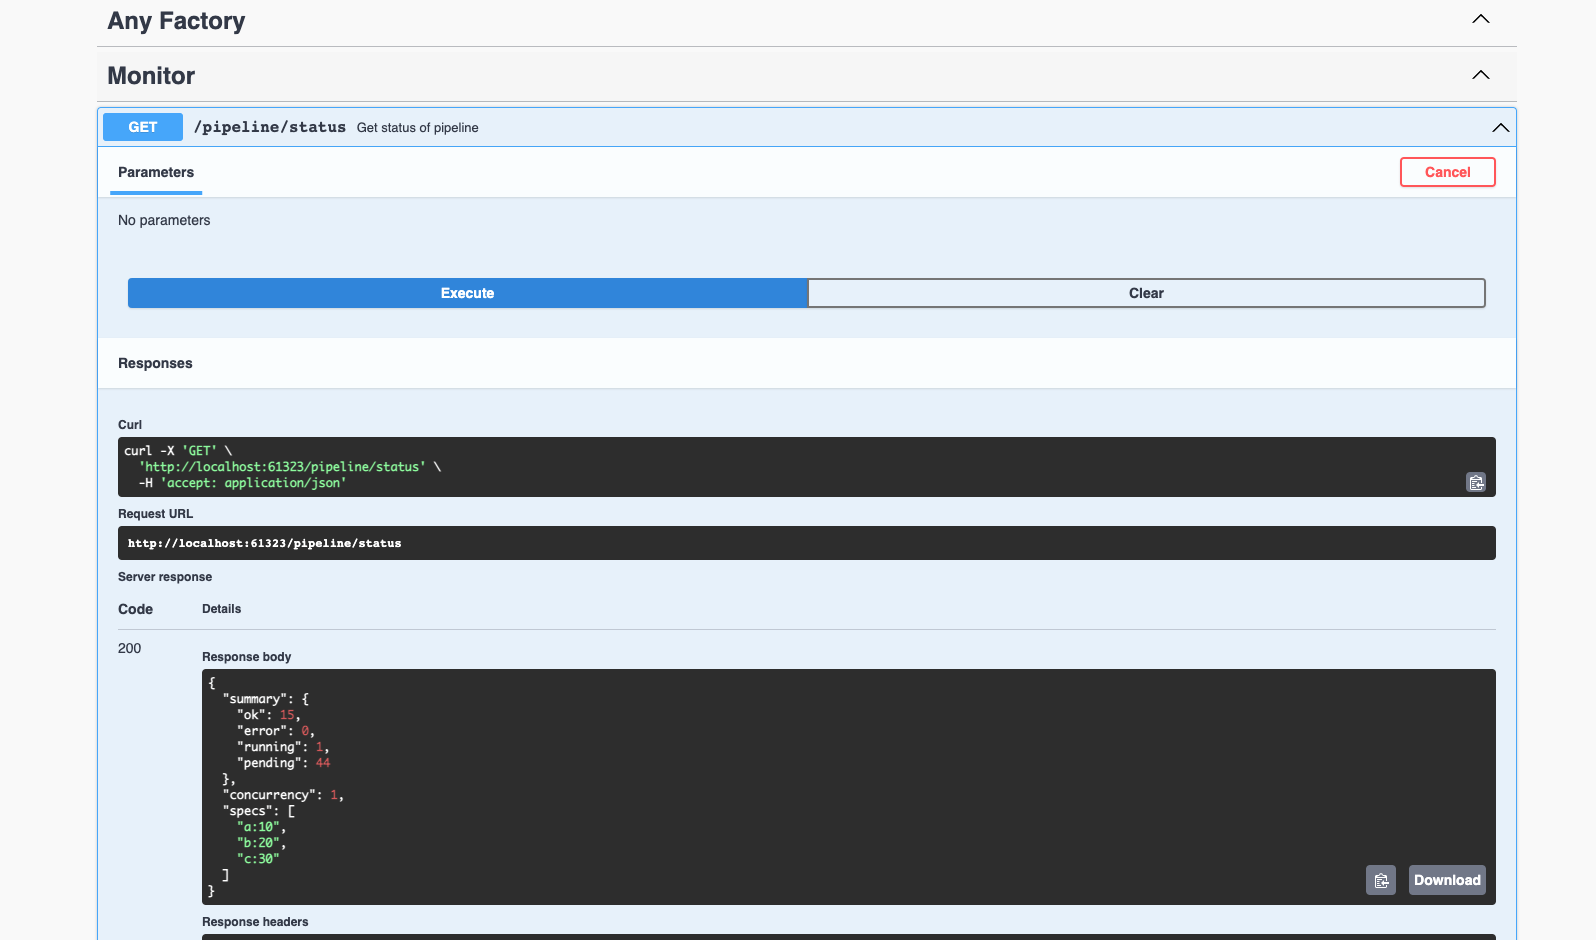
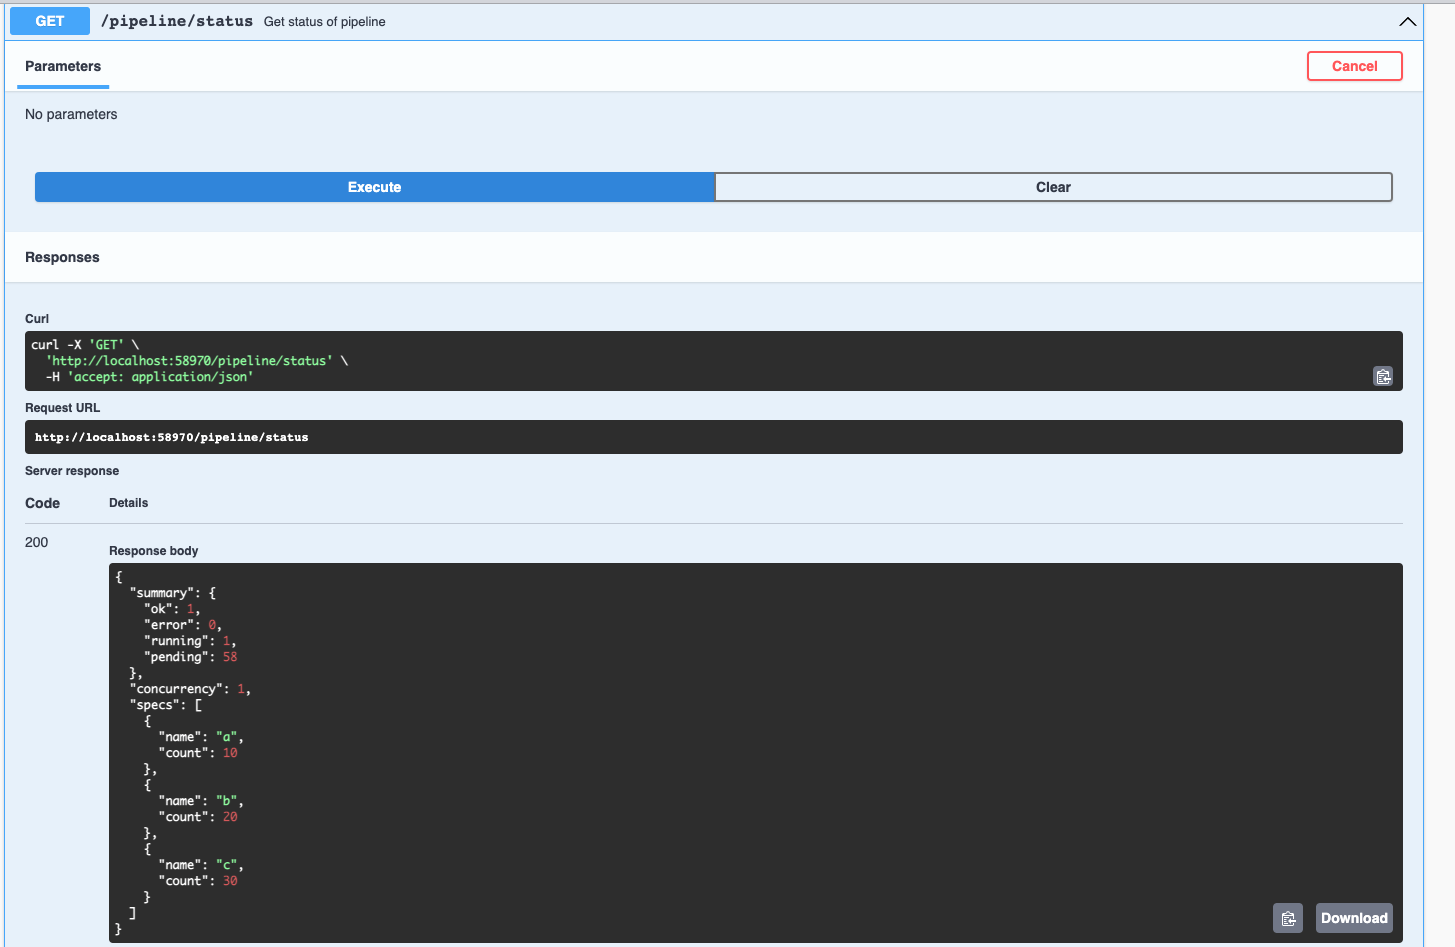
update

diff --git a/source/_posts/构建可观察和可动态修改的命令行程序.md b/source/_posts/构建可观察和可动态修改的命令行程序.md
@@ -317,9 +317,9 @@ import { CommandHandlerBase } from '@src/libs/ddd/domain/base-classes/command-ha
 import { ProduceProductCommand } from './produce-product.command';
 import { PipelineEntity } from '@modules/production/domain/entities/pipeline.entity';
 import { Production } from '@modules/production/domain/value-objects/production.value-object';
-import { SpecProps, Spec } from '@modules/production/domain/value-objects/spec.value-object';
+import { Spec } from '@modules/production/domain/value-objects/spec.value-object';
 import { Concurrency } from '@modules/production/domain/value-objects/concurrency.value-object';
-import { SummaryProps } from '@modules/production/domain/value-objects/summary.value-object';
+import { Summary } from '@modules/production/domain/value-objects/summary.value-object';
 import { produceProductServiceLoggerSymbol } from '@modules/production/providers/production.providers';
 
 @Injectable({
@@ -398,11 +398,11 @@ export class ProduceProductService extends CommandHandlerBase {
     this.pipelineEntity.addSpecs(additionalSpecs);
   }
 
-  getSummary(): SummaryProps {
+  getSummary(): Summary {
     return this.pipelineEntity.getSummary();
   }
 
-  getSpecs(): SpecProps[] {
+  getSpecs(): Spec[] {
     return this.pipelineEntity.getSpecs();
   }
 }
@@ -492,9 +492,11 @@ export class MonitorQueryHandler {
       return {} as ProductionStatus;
     }
     return {
-      summary: this.produceProductService.getSummary(),
+      summary: this.produceProductService.getSummary().getRawProps(),
       concurrency: this.produceProductService.getConcurrency(),
-      specs: this.produceProductService.getSpecs(),
+      specs: this.produceProductService
+        .getSpecs()
+        .map((spec) => spec.getRawProps()),
     };
   }
 }
